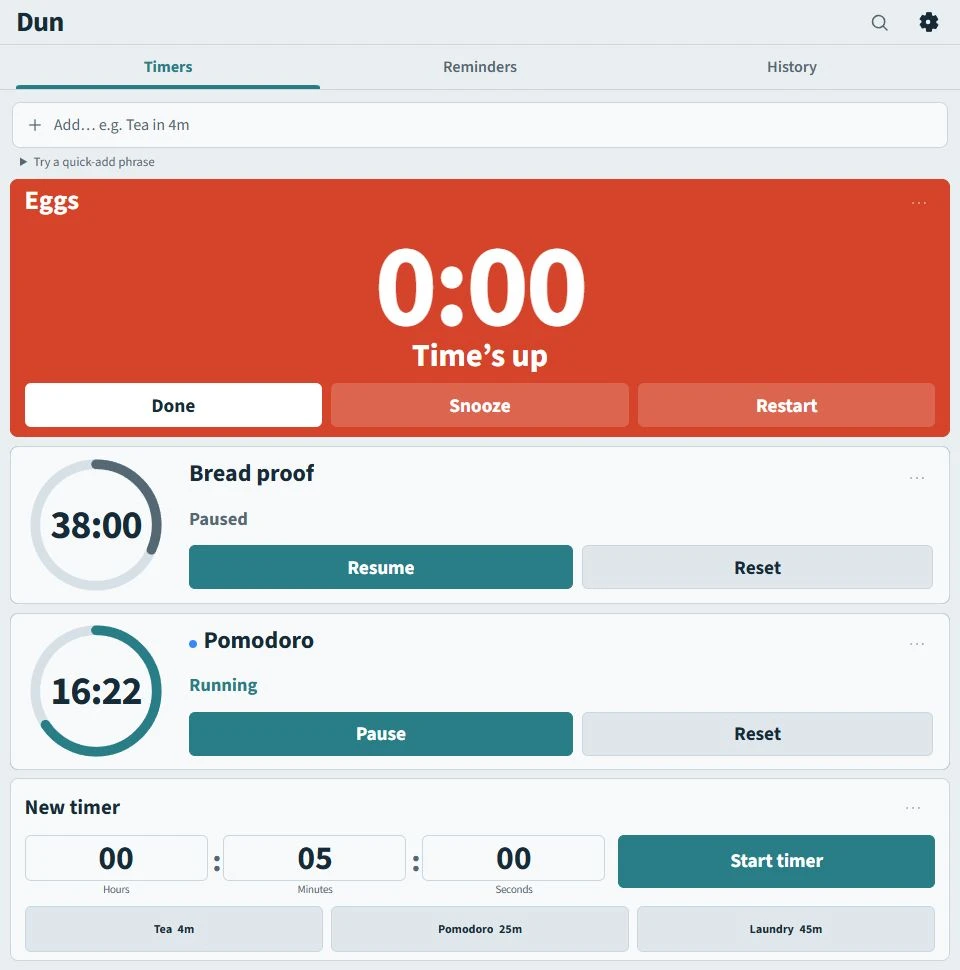
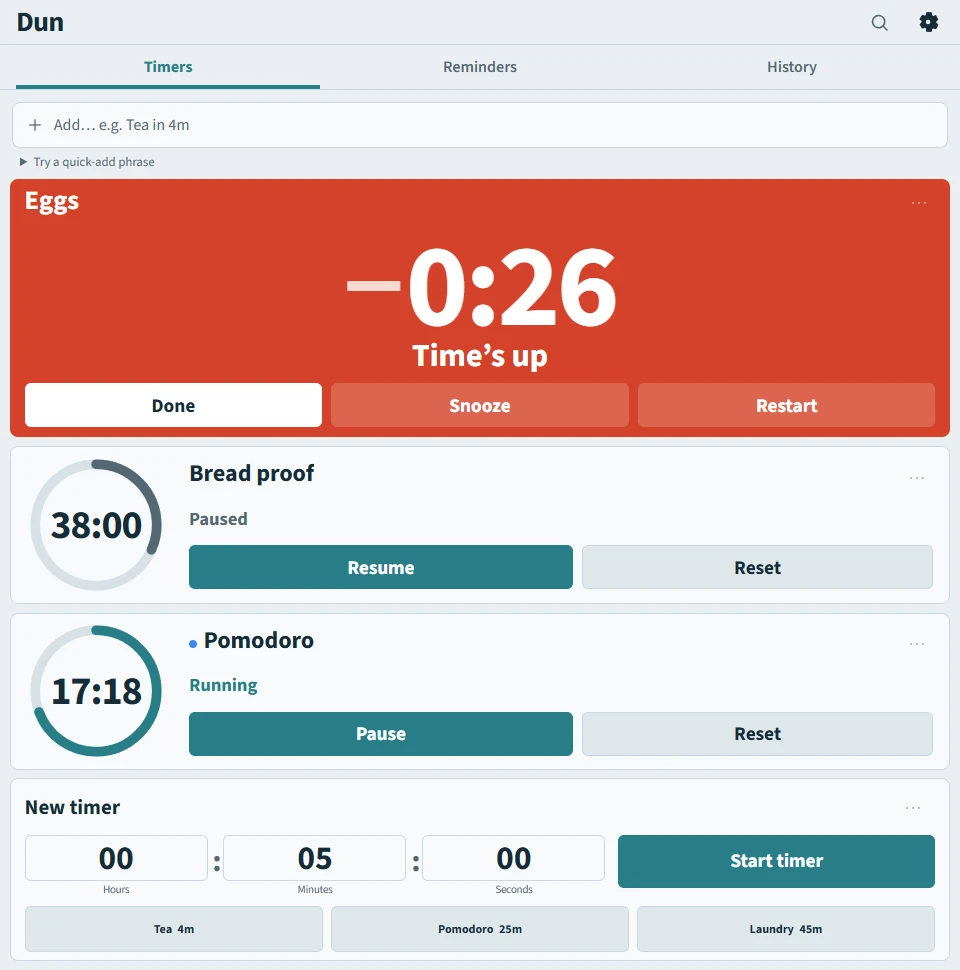
Publish Dun v1.1.0 downloads and a fresh app screenshot
Points the downloads at the v1.1.0 installer and APK, recaptures the
Timers screenshot now that a finished timer counts up, notes that the
release APK installs over v1.0.0, and bumps the asset cache tags.

Changed region(s): [[0.3438, 0.2474, 0.6562, 0.3402], [0.0312, 0.6804, 0.1562, 0.7423]]

diff --git a/site/dun/index.html b/site/dun/index.html
@@ -9,8 +9,8 @@
   <link rel="canonical" href="https://dev.vayne.garden/dun/">
   <link rel="icon" href="/dun/icon.svg" type="image/svg+xml">
   <link rel="preload" href="/dun/fonts/SourceSans3-Bold.woff2" as="font" type="font/woff2" crossorigin>
-  <link rel="stylesheet" href="/dun/dun.css?v=1.0.0-motion">
-  <script src="/dun/dun.js?v=1.0.0-motion" defer></script>
+  <link rel="stylesheet" href="/dun/dun.css?v=1.1.0">
+  <script src="/dun/dun.js?v=1.1.0" defer></script>
 </head>
 <body>
   <a class="skip-link" href="#main">Skip to content</a>
@@ -24,14 +24,14 @@
         <h1 id="title">Reminders that keep coming back.<br><span>Until you’re done.</span></h1>
         <p class="tagline">A reminder is easy to miss. Dun gives you another nudge, and another, until you mark it done. Set reminders and countdown timers on your PC and phone. No account needed.</p>
         <!-- DUN_PRIMARY_START -->
-      <div class="actions"><a class="button" href="https://github.com/vaynealtapascine/Dun/releases/download/v1.0.0/Dun_1.0.0_x64-setup.exe">Download for Windows</a><a class="button quiet" href="https://github.com/vaynealtapascine/Dun/releases/download/v1.0.0/dun-1.0.0.apk">Download for Android</a></div>
-      <p class="release-meta">64-bit PC · v1.0.0 · <time datetime="2026-10-01">1 Oct 2026</time> · 5.4 MB · .exe installer</p>
+      <div class="actions"><a class="button" href="https://github.com/vaynealtapascine/Dun/releases/download/v1.1.0/Dun_1.1.0_x64-setup.exe">Download for Windows</a><a class="button quiet" href="https://github.com/vaynealtapascine/Dun/releases/download/v1.1.0/dun-1.1.0.apk">Download for Android</a></div>
+      <p class="release-meta">64-bit PC · v1.1.0 · <time datetime="2026-10-03">3 Oct 2026</time> · 5.5 MB · .exe installer</p>
       <a class="release-meta-link" href="#downloads">Download details &amp; release notes</a>
       <!-- DUN_PRIMARY_END -->
         <p class="release-status">Free and open source. Still in development, and usable today.</p>
       </div>
       <figure class="app-preview">
-        <img src="/dun/timers.webp" width="960" height="970" fetchpriority="high" alt="Dun’s Timers screen: Eggs has finished with a large red Time’s up alert and Done, Snooze, and Restart controls. Bread proof is paused; Pomodoro is running with a teal countdown ring. Quick add stays above the timer list.">
+        <img src="/dun/timers.webp" width="960" height="970" fetchpriority="high" alt="Dun’s Timers screen. Eggs has finished: a large red Time’s up alert counts up how long ago it went off, with Done, Snooze, and Restart controls. Bread proof is paused; Pomodoro is running with a teal countdown ring. Quick add stays above the timer list.">
         <figcaption>The app itself, with example timers.</figcaption>
       </figure>
     </section>
@@ -70,10 +70,10 @@
     <section class="download-section" id="downloads" aria-labelledby="downloads-title"><div class="wrap">
       <h2 id="downloads-title">Bring Dun to your PC and phone.</h2>
       <!-- DUN_DOWNLOADS_START -->
-      <ul class="downloads"><li><a class="button" href="https://github.com/vaynealtapascine/Dun/releases/download/v1.0.0/Dun_1.0.0_x64-setup.exe">Download for Windows</a><span class="note">64-bit PC · v1.0.0 · <time datetime="2026-10-01">1 Oct 2026</time> · 5.4 MB · .exe installer<br><a href="https://github.com/vaynealtapascine/Dun/releases/tag/v1.0.0">Release notes</a></span></li><li><a class="button" href="https://github.com/vaynealtapascine/Dun/releases/download/v1.0.0/dun-1.0.0.apk">Download for Android</a><span class="note">ARM64 · Android 7.0+ · v1.0.0 · <time datetime="2026-10-01">1 Oct 2026</time> · 14.9 MB · signed APK<br><a href="https://github.com/vaynealtapascine/Dun/releases/tag/v1.0.0">Release notes</a></span></li></ul>
+      <ul class="downloads"><li><a class="button" href="https://github.com/vaynealtapascine/Dun/releases/download/v1.1.0/Dun_1.1.0_x64-setup.exe">Download for Windows</a><span class="note">64-bit PC · v1.1.0 · <time datetime="2026-10-03">3 Oct 2026</time> · 5.5 MB · .exe installer<br><a href="https://github.com/vaynealtapascine/Dun/releases/tag/v1.1.0">Release notes</a></span></li><li><a class="button" href="https://github.com/vaynealtapascine/Dun/releases/download/v1.1.0/dun-1.1.0.apk">Download for Android</a><span class="note">ARM64 · Android 7.0+ · v1.1.0 · <time datetime="2026-10-03">3 Oct 2026</time> · 14.8 MB · signed APK<br><a href="https://github.com/vaynealtapascine/Dun/releases/tag/v1.1.0">Release notes</a></span></li></ul>
       <!-- DUN_DOWNLOADS_END -->
       <p class="pairing-note">To share reminders, pair your PC and phone on the same network, or use Tailscale when you’re away. Android alerts depend on notification and exact-alarm permissions, battery settings, and alarm volume.</p>
-      <details><summary>Moving from an Android development build?</summary><p>The v1.0.0 APK uses a dedicated release signing key. If you have a debug build, export a backup before uninstalling it, then install this release and restore your backup. Android cannot install it directly over the debug build.</p></details>
+      <details><summary>Moving from an Android development build?</summary><p>Release APKs since v1.0.0 use a dedicated release signing key, so v1.1.0 installs directly over v1.0.0. If you have a debug build, export a backup before uninstalling it, then install this release and restore your backup. Android cannot install it directly over the debug build.</p></details>
       <!-- DUN_ALL_START -->
       <p><a href="https://github.com/vaynealtapascine/Dun/releases">Browse all releases on GitHub</a> for earlier versions and release notes. On a release page, open <strong>Assets</strong> to see its downloads.</p>
       <!-- DUN_ALL_END -->

diff --git a/site/dun/ASSETS.md b/site/dun/ASSETS.md
@@ -1,6 +1,6 @@
 # Dun landing-page assets
 
-- timers.webp: captured on 2026-10-02 from Dun's local Svelte browser preview at 127.0.0.1:1420, using synthetic demonstration items (Eggs, Bread proof, Pomodoro). Captured at 1280×1024 and cropped to the 960×970 app area; encoded as WebP at quality 90. No personal reminder data is included.
+- timers.webp: recaptured on 2026-10-03 for v1.1.0 (the finished timer now counts up) from Dun's local Svelte browser preview at 127.0.0.1:1420, using synthetic demonstration items (Eggs, Bread proof, Pomodoro). Captured at 1280×1024 and cropped to the 960×970 app area; encoded as WebP at quality 90. No personal reminder data is included.
 - icon.svg: unmodified Dun app icon, copied from Dun/assets/app-icon.svg.
 - fonts/: unmodified Source Sans 3 fonts shared with the app. See fonts/ORIGIN.md and fonts/SourceSans3-OFL.md for upstream provenance and license.
 
